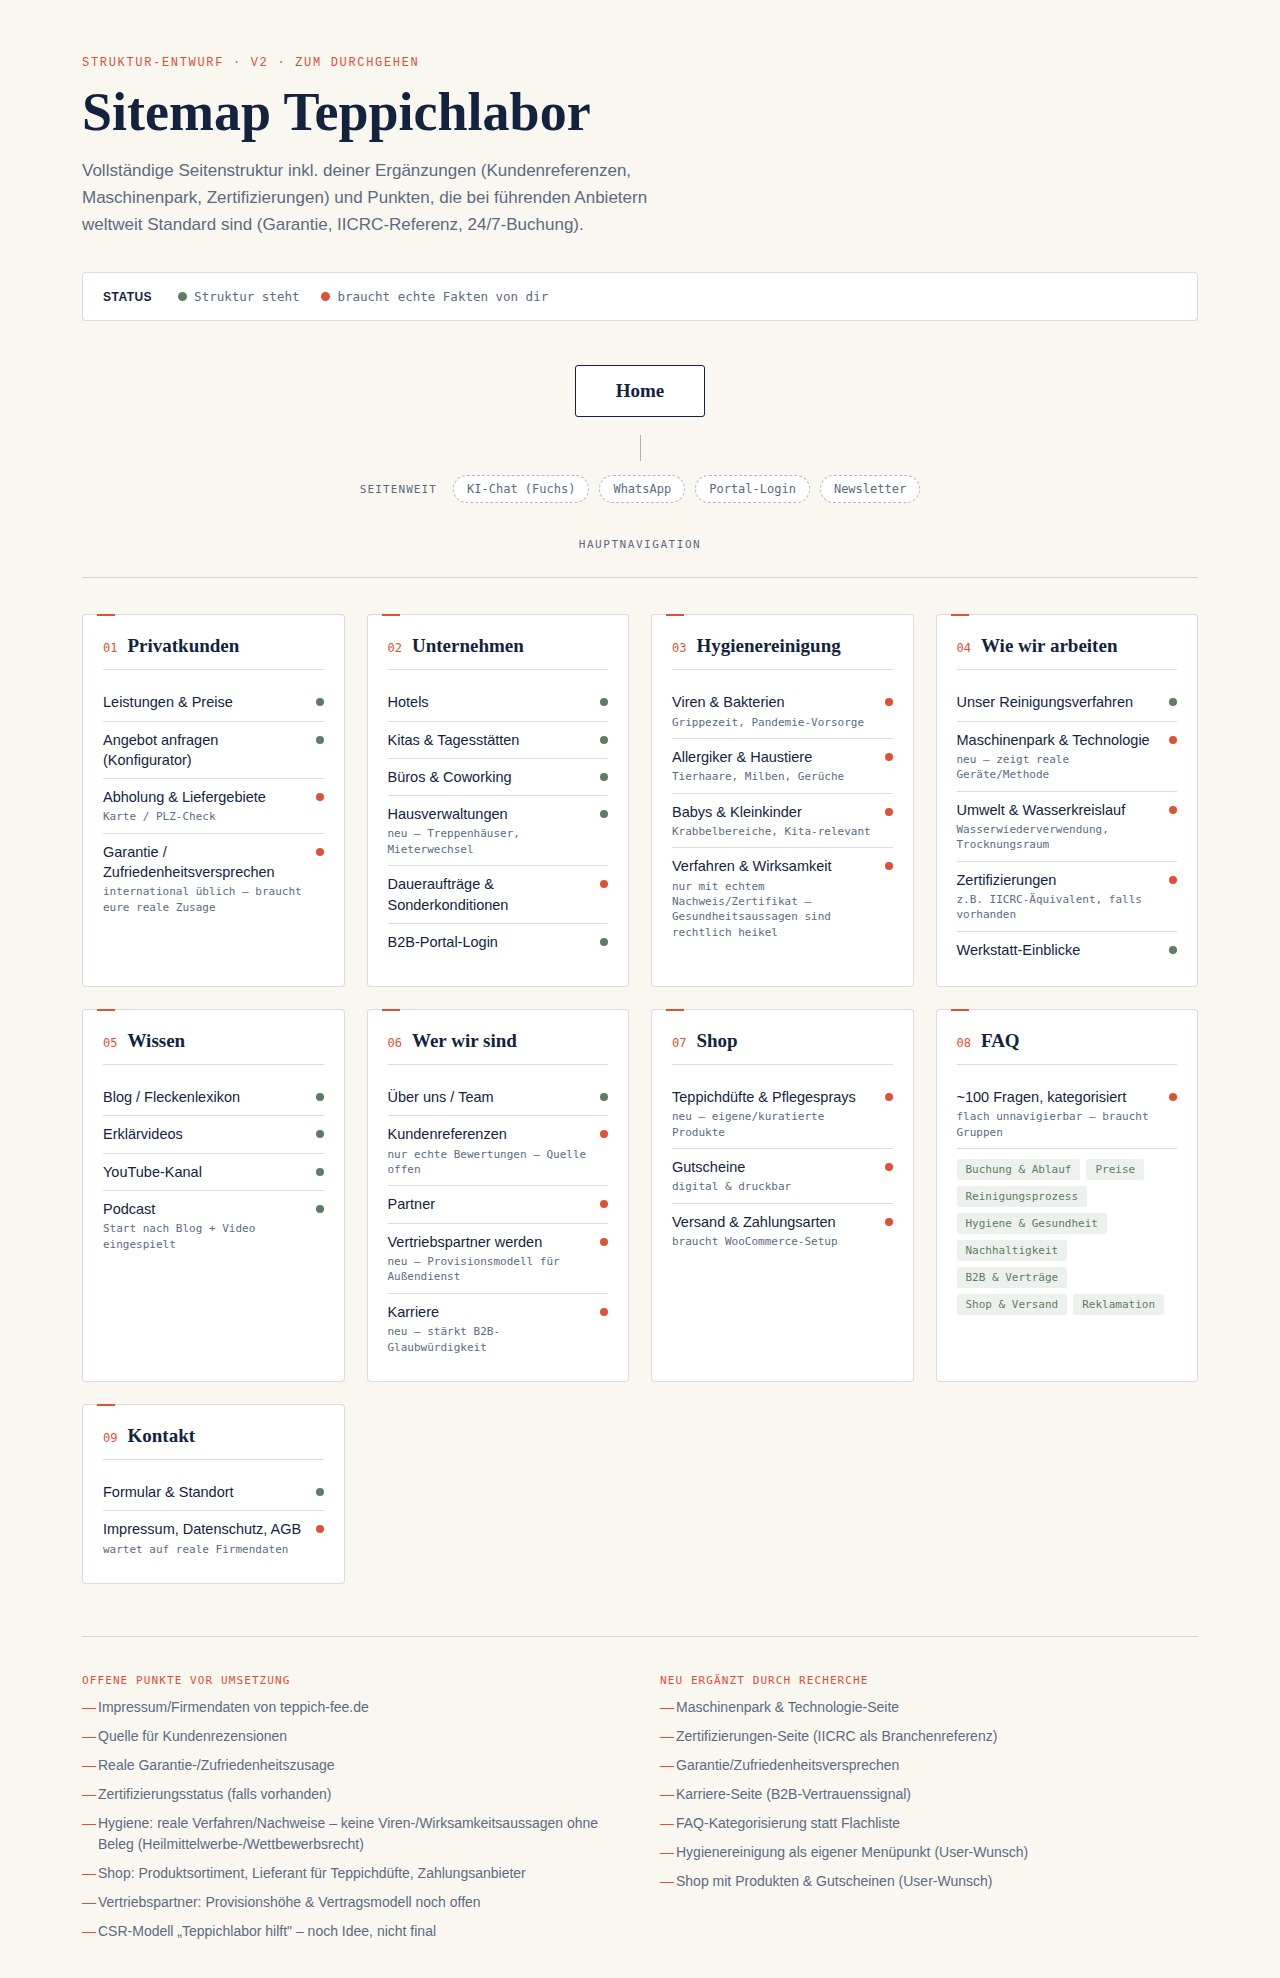
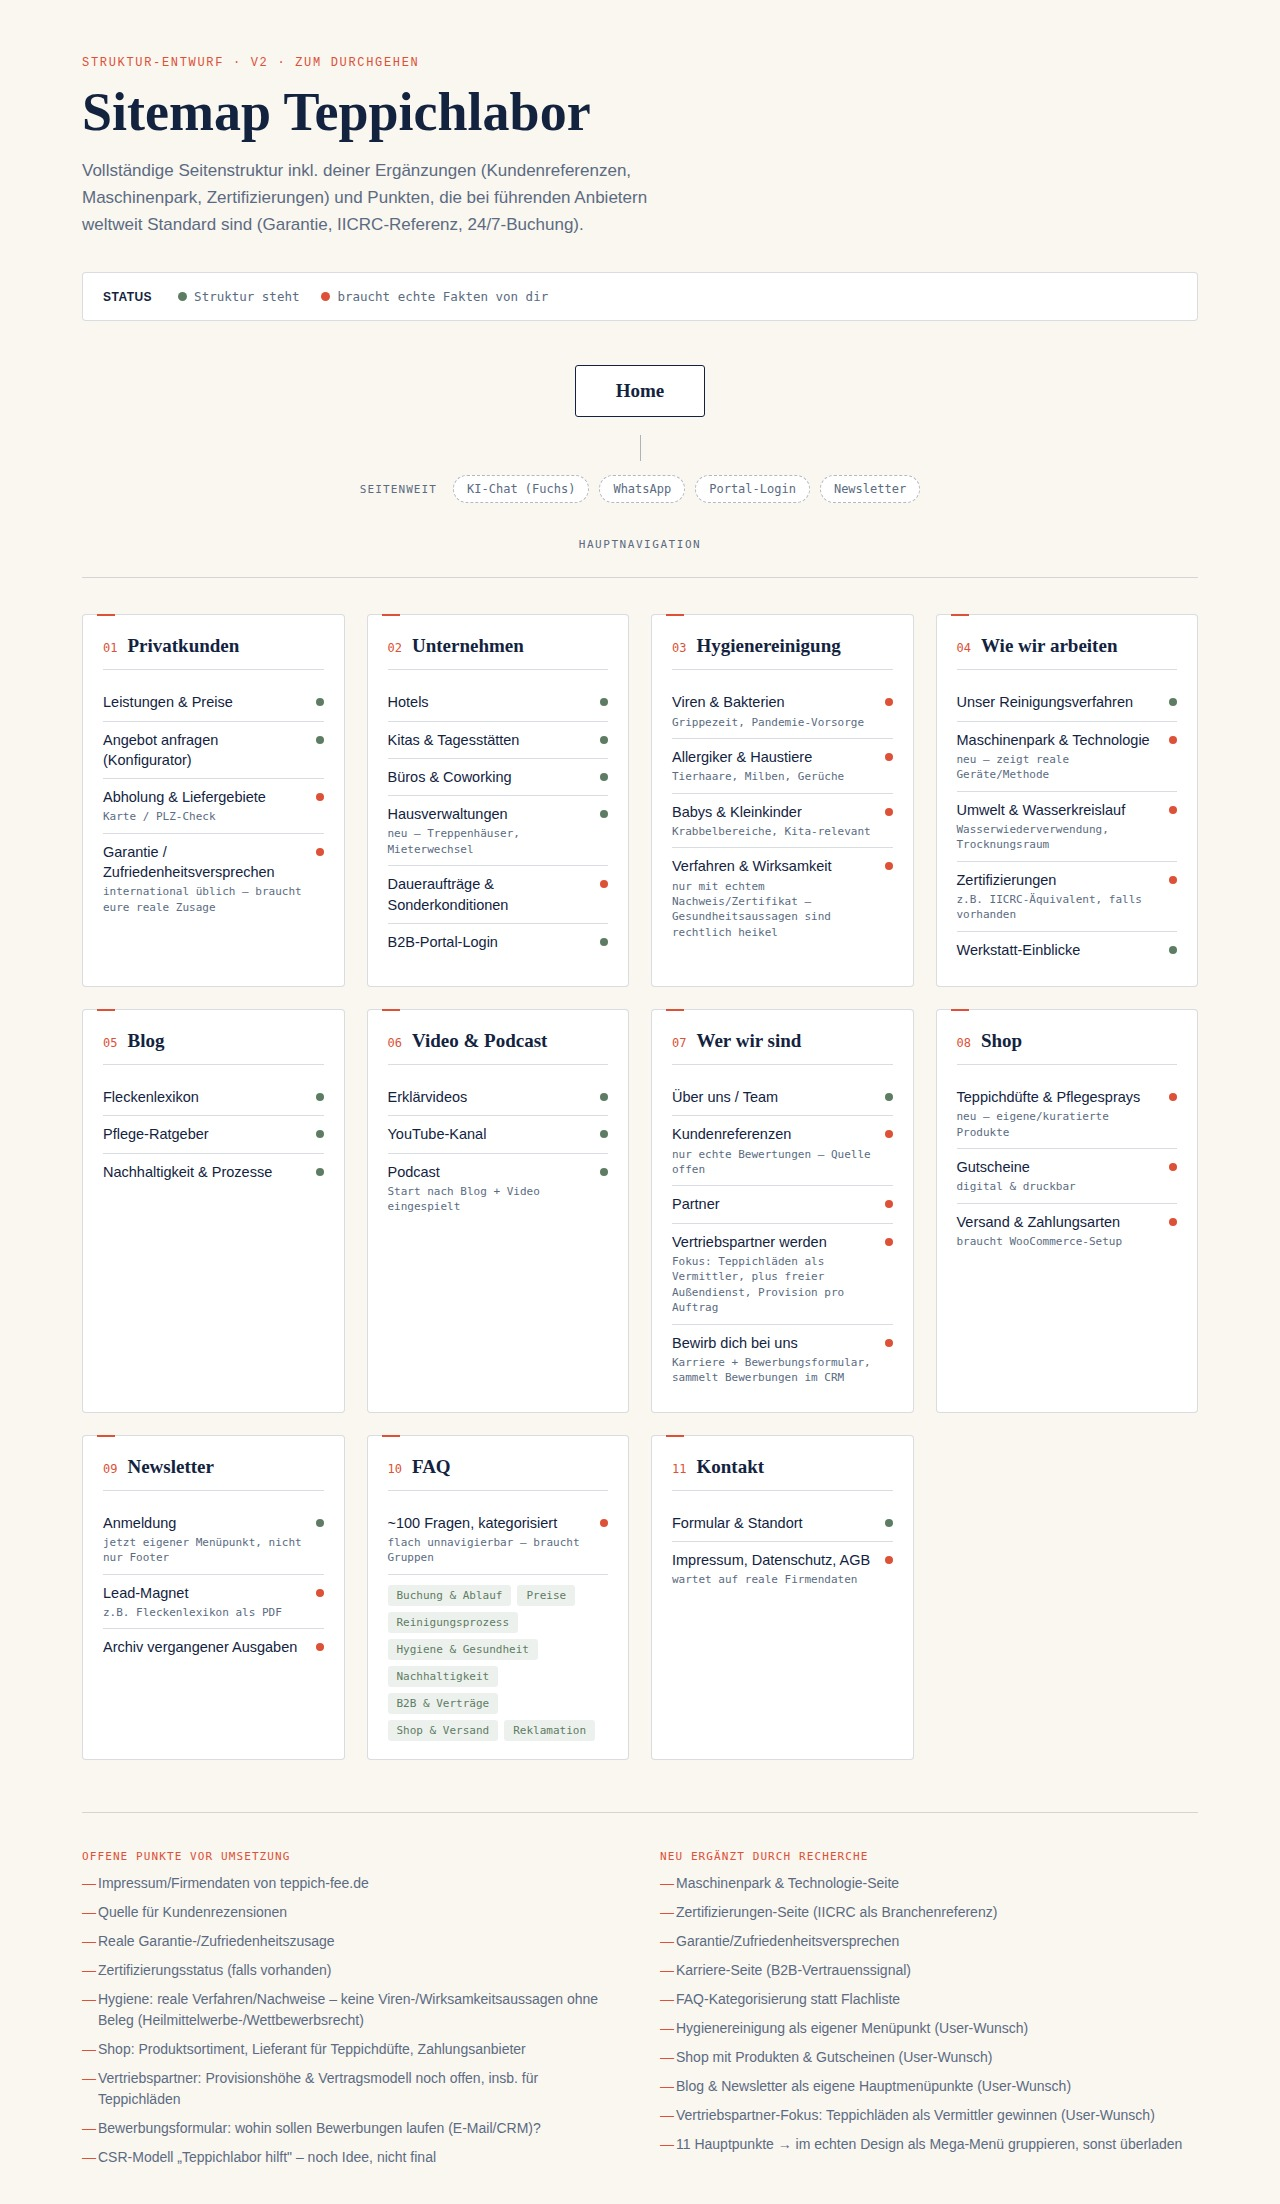
Promote Blog and Newsletter to main nav, expand Vertriebspartner and Karriere
Claude-Session: https://claude.ai/code/session_016pxjuxBxRAnccDrDef2Lht

diff --git a/brand/sitemap-scribble.html b/brand/sitemap-scribble.html
@@ -363,31 +363,44 @@
     </div>
 
     <div class="card">
-      <div class="card-head"><span class="num">05</span><span class="card-title">Wissen</span></div>
-      <div class="item"><span class="item-name">Blog / Fleckenlexikon</span><span class="flag ready"></span></div>
+      <div class="card-head"><span class="num">05</span><span class="card-title">Blog</span></div>
+      <div class="item"><span class="item-name">Fleckenlexikon</span><span class="flag ready"></span></div>
+      <div class="item"><span class="item-name">Pflege-Ratgeber</span><span class="flag ready"></span></div>
+      <div class="item"><span class="item-name">Nachhaltigkeit & Prozesse</span><span class="flag ready"></span></div>
+    </div>
+
+    <div class="card">
+      <div class="card-head"><span class="num">06</span><span class="card-title">Video & Podcast</span></div>
       <div class="item"><span class="item-name">Erklärvideos</span><span class="flag ready"></span></div>
       <div class="item"><span class="item-name">YouTube-Kanal</span><span class="flag ready"></span></div>
       <div class="item"><span class="item-name">Podcast<span class="item-note">Start nach Blog + Video eingespielt</span></span><span class="flag ready"></span></div>
     </div>
 
     <div class="card">
-      <div class="card-head"><span class="num">06</span><span class="card-title">Wer wir sind</span></div>
+      <div class="card-head"><span class="num">07</span><span class="card-title">Wer wir sind</span></div>
       <div class="item"><span class="item-name">Über uns / Team</span><span class="flag ready"></span></div>
       <div class="item"><span class="item-name">Kundenreferenzen<span class="item-note">nur echte Bewertungen – Quelle offen</span></span><span class="flag open"></span></div>
       <div class="item"><span class="item-name">Partner</span><span class="flag open"></span></div>
-      <div class="item"><span class="item-name">Vertriebspartner werden<span class="item-note">neu – Provisionsmodell für Außendienst</span></span><span class="flag open"></span></div>
-      <div class="item"><span class="item-name">Karriere<span class="item-note">neu – stärkt B2B-Glaubwürdigkeit</span></span><span class="flag open"></span></div>
+      <div class="item"><span class="item-name">Vertriebspartner werden<span class="item-note">Fokus: Teppichläden als Vermittler, plus freier Außendienst, Provision pro Auftrag</span></span><span class="flag open"></span></div>
+      <div class="item"><span class="item-name">Bewirb dich bei uns<span class="item-note">Karriere + Bewerbungsformular, sammelt Bewerbungen im CRM</span></span><span class="flag open"></span></div>
     </div>
 
     <div class="card">
-      <div class="card-head"><span class="num">07</span><span class="card-title">Shop</span></div>
+      <div class="card-head"><span class="num">08</span><span class="card-title">Shop</span></div>
       <div class="item"><span class="item-name">Teppichdüfte & Pflegesprays<span class="item-note">neu – eigene/kuratierte Produkte</span></span><span class="flag open"></span></div>
       <div class="item"><span class="item-name">Gutscheine<span class="item-note">digital & druckbar</span></span><span class="flag open"></span></div>
       <div class="item"><span class="item-name">Versand & Zahlungsarten<span class="item-note">braucht WooCommerce-Setup</span></span><span class="flag open"></span></div>
     </div>
 
     <div class="card">
-      <div class="card-head"><span class="num">08</span><span class="card-title">FAQ</span></div>
+      <div class="card-head"><span class="num">09</span><span class="card-title">Newsletter</span></div>
+      <div class="item"><span class="item-name">Anmeldung<span class="item-note">jetzt eigener Menüpunkt, nicht nur Footer</span></span><span class="flag ready"></span></div>
+      <div class="item"><span class="item-name">Lead-Magnet<span class="item-note">z.B. Fleckenlexikon als PDF</span></span><span class="flag open"></span></div>
+      <div class="item"><span class="item-name">Archiv vergangener Ausgaben</span><span class="flag open"></span></div>
+    </div>
+
+    <div class="card">
+      <div class="card-head"><span class="num">10</span><span class="card-title">FAQ</span></div>
       <div class="item"><span class="item-name">~100 Fragen, kategorisiert<span class="item-note">flach unnavigierbar – braucht Gruppen</span></span><span class="flag open"></span></div>
       <div class="faq-groups">
         <span class="chip">Buchung & Ablauf</span>
@@ -402,7 +415,7 @@
     </div>
 
     <div class="card">
-      <div class="card-head"><span class="num">09</span><span class="card-title">Kontakt</span></div>
+      <div class="card-head"><span class="num">11</span><span class="card-title">Kontakt</span></div>
       <div class="item"><span class="item-name">Formular & Standort</span><span class="flag ready"></span></div>
       <div class="item"><span class="item-name">Impressum, Datenschutz, AGB<span class="item-note">wartet auf reale Firmendaten</span></span><span class="flag open"></span></div>
     </div>
@@ -419,7 +432,8 @@
         <li>Zertifizierungsstatus (falls vorhanden)</li>
         <li>Hygiene: reale Verfahren/Nachweise – keine Viren-/Wirksamkeitsaussagen ohne Beleg (Heilmittelwerbe-/Wettbewerbsrecht)</li>
         <li>Shop: Produktsortiment, Lieferant für Teppichdüfte, Zahlungsanbieter</li>
-        <li>Vertriebspartner: Provisionshöhe & Vertragsmodell noch offen</li>
+        <li>Vertriebspartner: Provisionshöhe & Vertragsmodell noch offen, insb. für Teppichläden</li>
+        <li>Bewerbungsformular: wohin sollen Bewerbungen laufen (E-Mail/CRM)?</li>
         <li>CSR-Modell „Teppichlabor hilft" – noch Idee, nicht final</li>
       </ul>
     </div>
@@ -433,6 +447,9 @@
         <li>FAQ-Kategorisierung statt Flachliste</li>
         <li>Hygienereinigung als eigener Menüpunkt (User-Wunsch)</li>
         <li>Shop mit Produkten & Gutscheinen (User-Wunsch)</li>
+        <li>Blog & Newsletter als eigene Hauptmenüpunkte (User-Wunsch)</li>
+        <li>Vertriebspartner-Fokus: Teppichläden als Vermittler gewinnen (User-Wunsch)</li>
+        <li>11 Hauptpunkte → im echten Design als Mega-Menü gruppieren, sonst überladen</li>
       </ul>
     </div>
   </footer>
